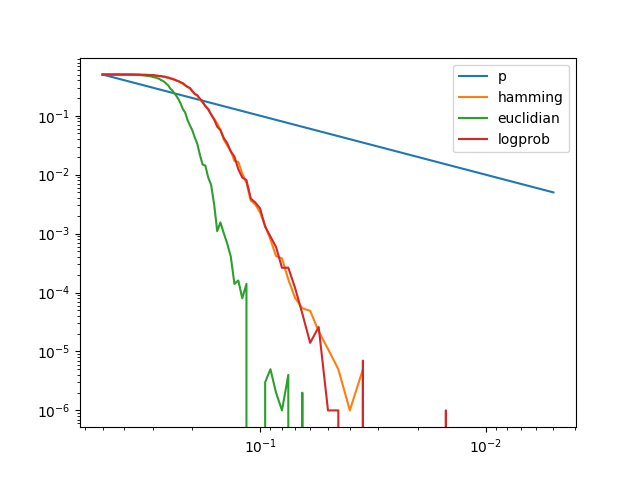
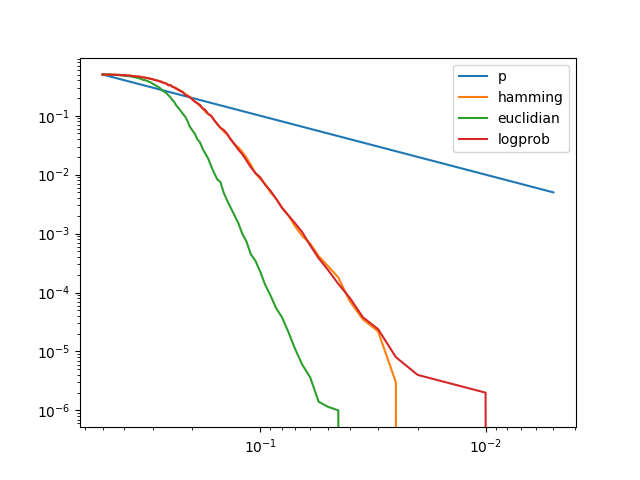
finish euclidian

diff --git a/professional/ele-32/lab3/plotter/costs.py b/professional/ele-32/lab3/plotter/costs.py
@@ -1,7 +1,7 @@
 import matplotlib.pyplot as plt
 from data_grabber import grab_cost_comparation_data
 
-space = 'e6'
+space = 'e3'
 data = grab_cost_comparation_data()
 p_hamming, e_hamming = data['hamming']['p'], data['hamming'][space]
 p_euclidian, e_euclidian = data['euclidian']['p'], data['euclidian'][space]

diff --git a/professional/ele-32/lab3/plotter/space_comparation.py b/professional/ele-32/lab3/plotter/space_comparation.py
@@ -10,7 +10,6 @@ plt.loglog(p, e3)
 plt.loglog(p, e4)
 plt.loglog(p, e6)
 plt.legend(['p', 'e3', 'e4', 'e6'])
-plt.show()
 plt.gca().invert_xaxis()
 plt.savefig('perror.png')
 
